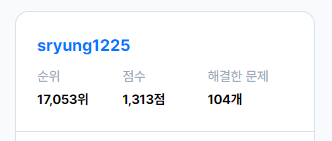
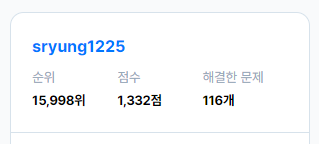
프로그래머스 점수 업데이트 : 1,313 -> 1,332 (+19)

diff --git a/README.md b/README.md
@@ -8,7 +8,7 @@
 
 ### 🌱 현재 단계
 
-- 8주차 (프로젝트 중 휴식 중)
+- 9주차 (프로젝트 기한 휴식 제외)
 - 프로그래머스 코딩테스트 입문 Level 1 풀이
 - ![프로그래머스 현재 상태](./assets/status_programmers.PNG)
 - 제주코딩베이스캠프 : JS 100제 풀이
@@ -16,9 +16,9 @@
 ### 🎒 (메모) 문제 풀이 플랫폼 추천
 
 - [프로그래머스](https://programmers.co.kr/)
+- [제코베](https://paullab.co.kr/codefestival.html)
 - [백준](https://www.acmicpc.net/step)
   - [문제 추천](https://devjeong.com/algorithm/algorithm-1/#코딩-테스트-대비-백준-문제-추천)
-- [제코베](https://paullab.co.kr/codefestival.html)
 - [SW역량테스트](https://swexpertacademy.com/main/capacityTest/main.do)
 
 <br>
